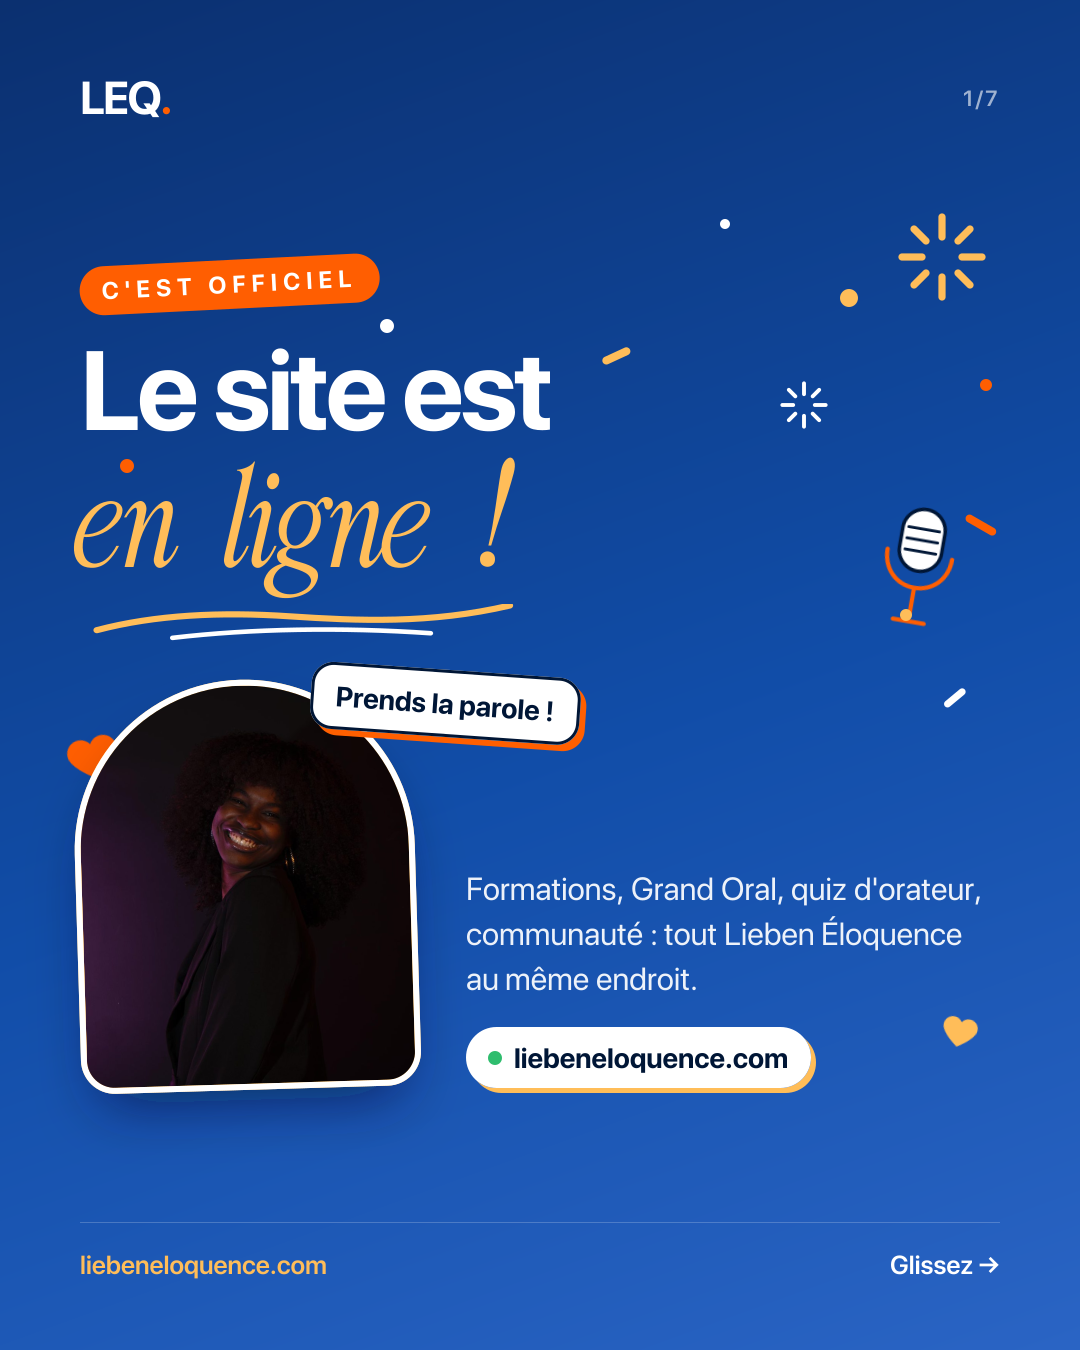
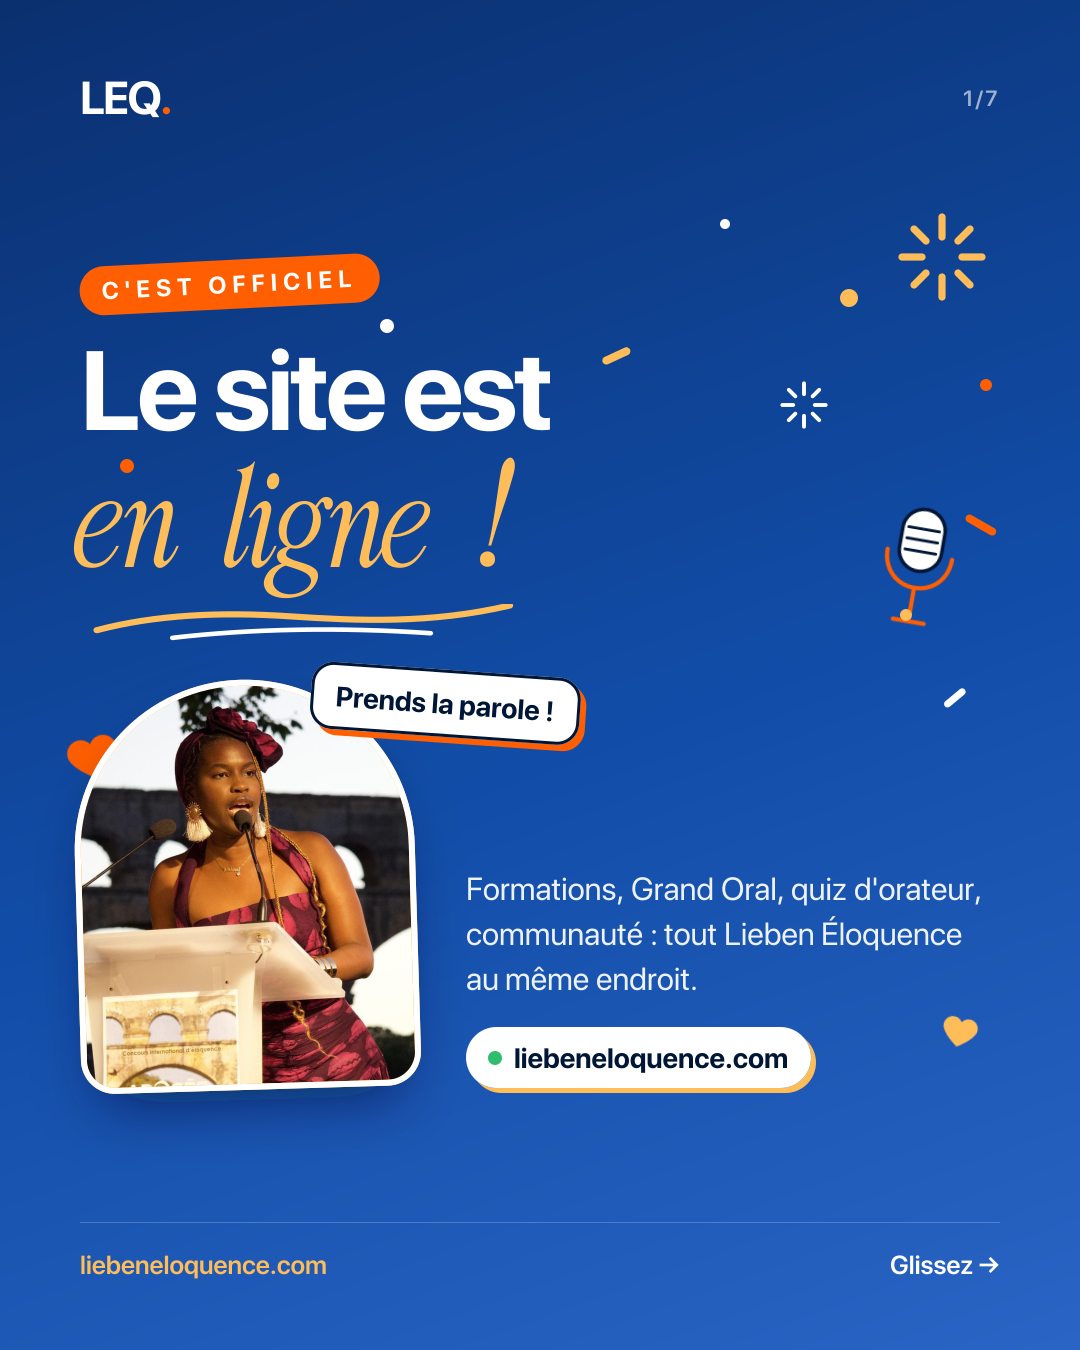
Finitions : photo du Pont du Gard en accueil, nouvelles photos (Eloquentia, portrait), avis à faire défiler soi-même, corrections d'orthographe et d'espaces, rappel spams après envoi, bouton Refaire le quiz visible

Changed region(s): [[0.0611, 0.4978, 0.3972, 0.8089]]

diff --git a/src/app/a-propos/page.tsx b/src/app/a-propos/page.tsx
@@ -27,7 +27,7 @@ const PARCOURS = [
       "Double championne d'un concours national d'argumentation poétique",
       "Responsable communication du magazine scolaire",
       "Animatrice des jeux de culture générale au lycée",
-      "Paire éducatrice : accompagnement des élèves à la prise de parole",
+      "Pair-éducatrice : accompagnement des élèves à la prise de parole",
     ],
   },
   {
@@ -92,7 +92,7 @@ export default function AProposPage() {
               <DrawUnderline width={220} style={{ marginTop: 4 }} />
               <div className="mt-7 grid max-w-[600px] gap-[18px] text-[16px] leading-[1.7] text-white/85">
                 <p className="m-0">
-                  C&apos;est ce qu&apos;écrivait Cicéron. Au vu de mon parcours, je crois plutôt être née oratrice, comme la majorité d&apos;entre nous. Une personne qui parle et qui s&apos;exprime est déjà un orateur. Mais le fossé entre un orateur et un <strong className="font-semibold text-gold">bon</strong> orateur est immense. Ce fossé, j&apos;ai pris le temps de le combler ces dernières années.
+                  C&apos;est ce qu&apos;écrivait Cicéron. Au vu de mon parcours, je crois plutôt être née oratrice, comme la majorité d&apos;entre nous. Une personne qui parle et qui s&apos;exprime est déjà un orateur. Mais le fossé entre un orateur et un <strong className="font-semibold text-gold">bon</strong>{" "}orateur est immense. Ce fossé, j&apos;ai pris le temps de le combler ces dernières années.
                 </p>
                 <p className="m-0">
                   De la jeune fille qui jouait à l&apos;animatrice télé devant son miroir à l&apos;oratrice d&apos;aujourd&apos;hui, le chemin a été long. Moi, c&apos;est Rebecca Lieben Ahiale, togolaise d&apos;origine et résidant en France.
@@ -110,7 +110,7 @@ export default function AProposPage() {
             <div className="flex min-w-0 justify-center" style={{ flex: ".85 1 300px" }}>
               <div className="relative w-full max-w-[384px]">
                 <div aria-hidden="true" className="absolute inset-0 rounded-[28px]" style={{ transform: "translate(-16px,16px)", border: "1px solid rgba(255,189,89,.25)" }} />
-                <Image src="/formatrice.jpg" alt="Portrait de Rebecca Lieben Ahiale" width={900} height={1199} priority sizes="(max-width: 760px) 90vw, 384px" className="relative block h-auto w-full rounded-[28px] object-cover" style={{ aspectRatio: "4 / 5" }} />
+                <Image src="/images/rebecca/portrait-rose.jpg" alt="Portrait de Rebecca Lieben Ahiale" width={1600} height={1067} priority sizes="(max-width: 760px) 90vw, 384px" className="relative block h-auto w-full rounded-[28px] object-cover" style={{ aspectRatio: "4 / 5", objectPosition: "50% 30%" }} />
                 <div className="bob absolute z-[2] rounded-[20px] bg-white px-4 py-2.5 text-[15px] font-bold text-ink" style={{ left: -20, top: "16%", boxShadow: "4px 4px 0 #FF5E01" }}>
                   Togo <span className="serif text-orange">→</span> France
                 </div>

diff --git a/src/components/home/ReviewsCarousel.tsx b/src/components/home/ReviewsCarousel.tsx
@@ -1,0 +1,66 @@
+"use client";
+
+import { useCallback, useEffect, useRef, useState, type ReactNode } from "react";
+
+/** Carrousel d'avis que le visiteur fait défiler lui-même (flèches, glisser au doigt, clavier). */
+export function ReviewsCarousel({ children, count }: { children: ReactNode; count: number }) {
+  const track = useRef<HTMLDivElement>(null);
+  const [atStart, setAtStart] = useState(true);
+  const [atEnd, setAtEnd] = useState(false);
+
+  const update = useCallback(() => {
+    const el = track.current;
+    if (!el) return;
+    setAtStart(el.scrollLeft <= 4);
+    setAtEnd(el.scrollLeft + el.clientWidth >= el.scrollWidth - 4);
+  }, []);
+
+  useEffect(() => {
+    update();
+    window.addEventListener("resize", update);
+    return () => window.removeEventListener("resize", update);
+  }, [update]);
+
+  const move = (dir: 1 | -1) => {
+    const el = track.current;
+    if (!el) return;
+    const card = el.querySelector<HTMLElement>("figure");
+    const step = card ? card.offsetWidth + 24 : el.clientWidth * 0.8;
+    el.scrollBy({ left: dir * step, behavior: window.matchMedia("(prefers-reduced-motion: reduce)").matches ? "auto" : "smooth" });
+  };
+
+  const arrow = (dir: 1 | -1, disabled: boolean) => (
+    <button
+      type="button"
+      onClick={() => move(dir)}
+      disabled={disabled}
+      aria-label={dir === 1 ? "Avis suivants" : "Avis précédents"}
+      className="grid h-12 w-12 cursor-pointer place-items-center rounded-full border-2 border-ink bg-white text-ink transition hover:bg-ink hover:text-white disabled:cursor-default disabled:opacity-30 disabled:hover:bg-white disabled:hover:text-ink"
+    >
+      <svg width="20" height="20" viewBox="0 0 24 24" fill="none" stroke="currentColor" strokeWidth="2.2" strokeLinecap="round" strokeLinejoin="round" aria-hidden="true">
+        <path d={dir === 1 ? "M5 12h14M12 5l7 7-7 7" : "M19 12H5M12 19l-7-7 7-7"} />
+      </svg>
+    </button>
+  );
+
+  return (
+    <div className="mt-12">
+      <div className="wrap">
+        <div
+          ref={track}
+          onScroll={update}
+          tabIndex={0}
+          role="region"
+          aria-label={`${count} avis, faites défiler pour les lire`}
+          className="reviews-track flex snap-x snap-mandatory gap-6 overflow-x-auto px-1 py-4"
+        >
+          {children}
+        </div>
+      </div>
+      <div className="wrap mt-6 flex items-center justify-center gap-3">
+        {arrow(-1, atStart)}
+        {arrow(1, atEnd)}
+      </div>
+    </div>
+  );
+}

diff --git a/src/components/home/Temoignages.tsx b/src/components/home/Temoignages.tsx
@@ -1,4 +1,5 @@
 import type { Review } from "@/content/schema";
+import { ReviewsCarousel } from "./ReviewsCarousel";
 
 const AVATARS = [
   { bg: "#f6c6c6", fg: "#8a3030" },
@@ -19,7 +20,7 @@ const initials = (author: string) =>
 function ReviewCard({ review, index }: { review: Review; index: number }) {
   const c = AVATARS[index % AVATARS.length];
   return (
-    <figure className="card-light m-0 flex w-[min(360px,82vw)] shrink-0 flex-col rounded-[26px] p-7">
+    <figure className="card-light m-0 flex w-[min(360px,82vw)] shrink-0 snap-start flex-col rounded-[26px] p-7">
       <p className="m-0 text-[17px] tracking-[3px] text-gold" aria-label={`${review.rating} étoiles sur 5`}>
         {"★".repeat(review.rating)}
       </p>
@@ -37,7 +38,7 @@ function ReviewCard({ review, index }: { review: Review; index: number }) {
   );
 }
 
-/** Carrousel défilant des avis. La section n'apparaît que s'il y a des avis publiés. */
+/** Carrousel des avis, que le visiteur fait défiler lui-même. La section n'apparaît que s'il y a des avis publiés. */
 export function Temoignages({ reviews }: { reviews: Review[] }) {
   if (reviews.length === 0) return null;
 
@@ -55,19 +56,11 @@ export function Temoignages({ reviews }: { reviews: Review[] }) {
           </svg>
         </div>
       </div>
-      <div className="marquee-viewport mt-12" style={{ maskImage: "linear-gradient(90deg,transparent,#000 8%,#000 92%,transparent)", WebkitMaskImage: "linear-gradient(90deg,transparent,#000 8%,#000 92%,transparent)" }}>
-        <div className="marquee py-2" tabIndex={0} aria-label="Avis de personnes accompagnées (survoler pour mettre en pause)">
-          {reviews.map((r, i) => (
-            <ReviewCard key={r.id} review={r} index={i} />
-          ))}
-          {/* Copie pour un défilement sans fin, ignorée des lecteurs d'écran */}
-          <div aria-hidden="true" className="marquee-copy contents">
-            {reviews.map((r, i) => (
-              <ReviewCard key={`copie-${r.id}`} review={r} index={i} />
-            ))}
-          </div>
-        </div>
-      </div>
+      <ReviewsCarousel count={reviews.length}>
+        {reviews.map((r, i) => (
+          <ReviewCard key={r.id} review={r} index={i} />
+        ))}
+      </ReviewsCarousel>
     </section>
   );
 }

diff --git a/src/app/autres-services/page.tsx b/src/app/autres-services/page.tsx
@@ -167,7 +167,7 @@ export default async function AutresServicesPage() {
                   </li>
                 ))}
               </ul>
-              <p className="mt-[22px] mb-0 text-[14px] text-white/70">Trois formules : gratuite, standard, et accès complet avec coaching.</p>
+              <p className="mt-[22px] mb-0 text-[14px] text-white/70">Trois formules : gratuite, standard et accès complet avec coaching.</p>
               <Link className="btn btn-p mt-7" href="/evenements#newsletter">Être prévenu du lancement</Link>
             </div>
             <div className="relative flex min-w-0 justify-center" style={{ flex: ".9 1 300px" }} aria-hidden="true">
@@ -190,7 +190,7 @@ export default async function AutresServicesPage() {
                   </div>
                   <div className="rounded-[18px] bg-peach p-3.5">
                     <p className="m-0 text-[13px] leading-[1.45]">
-                      <strong>Conseil du jour :</strong> un silence bien placé vaut mieux qu&apos;un « euh ».
+                      <strong>Conseil du jour :</strong>{" "}un silence bien placé vaut mieux qu&apos;un « euh ».
                     </p>
                   </div>
                   <div className="mt-auto flex gap-2">

diff --git a/src/components/home/Constat.tsx b/src/components/home/Constat.tsx
@@ -24,7 +24,7 @@ export function Constat() {
 
           <p className="eyebrow text-center">Le constat</p>
           <p className="mx-auto mt-6 max-w-[768px] text-center text-[17px] leading-[1.65] text-white sm:text-[20px]">
-            La prise de parole, on l&apos;imagine réservée aux grandes scènes et aux personnes d&apos;exception. La plupart des gens ne se sentent pas légitimes de prendre la parole, même quand ils en ont le droit, la compétence et les idées. Pourtant, savoir s&apos;exprimer avec clarté et confiance change tout dans la vie. Cette discipline est présente dans les domaines suivants, et bien plus encore :
+            La prise de parole, on l&apos;imagine réservée aux grandes scènes et aux personnes d&apos;exception. La plupart des gens ne se sentent pas légitimes pour prendre la parole, même quand ils en ont le droit, la compétence et les idées. Pourtant, savoir s&apos;exprimer avec clarté et confiance change tout dans la vie. Cette discipline est présente dans les domaines suivants, et bien plus encore :
           </p>
           <ul className="mx-auto mt-10 flex max-w-[896px] list-none flex-wrap justify-center gap-3 p-0">
             {DOMAINES.map((d) => (

diff --git a/src/app/communaute/page.tsx b/src/app/communaute/page.tsx
@@ -15,7 +15,7 @@ export const metadata: Metadata = {
 };
 
 const ENSEMBLE: { icon: IconName; title: string; text: string; rotate: number }[] = [
-  { icon: "video", title: "Des lives chaque semaine", text: "Sur des thématiques choisies par la communauté : prise de parole, storytelling, gestion du trac, improvisation, culture générale, avec des invités surprises réguliers.", rotate: -1.2 },
+  { icon: "video", title: "Des lives chaque semaine", text: "Sur des thématiques choisies par la communauté : prise de parole, storytelling, gestion du trac, improvisation, culture générale, avec des invités surprise réguliers.", rotate: -1.2 },
   { icon: "chat", title: "Une entraide quotidienne", text: "Vous préparez une soutenance, un concours, un entretien ? Vous postez, la communauté répond.", rotate: 1 },
   { icon: "trophy", title: "Le Grand Prix LEQ", text: "Un concours trimestriel ouvert à tous les membres. Le gagnant est désigné à 50 % par le vote du public et à 50 % par un jury invité. À la clé, jusqu'à 200 € de prix.", rotate: -0.8 },
 ];

diff --git a/src/components/home/QuiSuisJe.tsx b/src/components/home/QuiSuisJe.tsx
@@ -18,13 +18,13 @@ export function QuiSuisJe() {
           <div className="relative w-full max-w-[384px]">
             <div aria-hidden="true" className="absolute inset-0 rounded-[28px]" style={{ transform: "translate(16px,16px)", border: "1px solid rgba(255,189,89,.25)" }} />
             <Image
-              src="/formatrice.jpg"
-              alt="Rebecca Lieben Ahiale, formatrice en prise de parole"
-              width={900}
-              height={1199}
+              src="/images/rebecca/eloquentia-toulon.jpg"
+              alt="Rebecca Lieben Ahiale sur scène, à la soirée de lancement d'Eloquentia Toulon"
+              width={720}
+              height={970}
               sizes="(max-width: 760px) 90vw, 384px"
               className="relative block h-auto w-full rounded-[28px] object-cover"
-              style={{ aspectRatio: "4 / 5" }}
+              style={{ aspectRatio: "4 / 5", objectPosition: "50% 30%" }}
             />
           </div>
         </div>

diff --git a/src/components/home/Hero.tsx b/src/components/home/Hero.tsx
@@ -47,12 +47,12 @@ export function Hero() {
                 style={{ left: "14%", right: "14%", top: "8%", bottom: "6%", borderRadius: "200px 200px 36px 36px", border: "4px solid #fff", boxShadow: "0 30px 60px -20px rgba(0,22,54,.6)" }}
               >
                 <Image
-                  src="/formatrice.jpg"
-                  alt="Rebecca Lieben Ahiale, formatrice en prise de parole"
+                  src="/images/rebecca/pont-du-gard.jpg"
+                  alt="Rebecca Lieben Ahiale au pupitre du Mondial de la Parole, devant le Pont du Gard"
                   fill
                   priority
                   sizes="(max-width: 760px) 70vw, 300px"
-                  style={{ objectFit: "cover", objectPosition: "50% 20%" }}
+                  style={{ objectFit: "cover", objectPosition: "50% 15%" }}
                 />
               </div>
               <div

diff --git a/src/components/home/Transparence.tsx b/src/components/home/Transparence.tsx
@@ -16,7 +16,7 @@ export function Transparence() {
           Ce que je ne fais <span className="serif text-gold">pas</span>
         </h2>
         <p className="mt-5 mb-0 max-w-[672px] text-[15.5px] leading-[1.65] text-white/85">
-          Être clair sur les limites de mon accompagnement, c&apos;est la meilleure façon de vous garantir un travail utile. Voici ce qui relève d&apos;autres professionnels.
+          Être claire sur les limites de mon accompagnement, c&apos;est la meilleure façon de vous garantir un travail utile. Voici ce qui relève d&apos;autres professionnels.
         </p>
         <div className="mt-14 grid gap-9" style={{ gridTemplateColumns: "repeat(auto-fit,minmax(min(280px,100%),1fr))" }}>
           {LIMITES.map((l) => (

diff --git a/src/lib/options.ts b/src/lib/options.ts
@@ -6,6 +6,6 @@ export const ORAUX = ["Grand Oral du bac", "Oral de BTS", "Soutenance", "Pitch",
 
 export const DEMANDES = ["Discours sur mesure", "Animation d'événement", "Coaching concours d'éloquence", "Partenariat LEQ'FAM", "Autre demande"] as const;
 
-export const PROFILS_NEWSLETTER = ["Lycéen(ne) · Terminale", "Étudiant(e)", "Professionnel(le)", "Établissement scolaire"] as const;
+export const PROFILS_NEWSLETTER = ["Lycéen·ne en terminale", "Étudiant·e", "Professionnel·le", "Établissement scolaire"] as const;
 
 export const THEMATIQUES = ["Gestion du trac", "Structuration du discours", "Voix & non-verbal", "Improvisation", "Concours d'éloquence"] as const;

diff --git a/src/components/quiz/Quiz.tsx b/src/components/quiz/Quiz.tsx
@@ -131,7 +131,11 @@ export function Quiz() {
 
       {step === "result" && (
         <p className="mt-7 mb-0 text-center">
-          <button type="button" onClick={start} className="cursor-pointer border-0 bg-transparent text-[14px] text-white/75 underline">
+          <button type="button" onClick={start} className="btn btn-g">
+            <svg width="16" height="16" viewBox="0 0 24 24" fill="none" stroke="currentColor" strokeWidth="2" strokeLinecap="round" strokeLinejoin="round" aria-hidden="true">
+              <path d="M3 12a9 9 0 1 0 3-6.7L3 8" />
+              <path d="M3 3v5h5" />
+            </svg>
             Refaire le quiz
           </button>
         </p>

diff --git a/src/components/ui/Form.tsx b/src/components/ui/Form.tsx
@@ -66,6 +66,9 @@ export function FormSuccess({ title, children }: { title: string; children: Reac
       </svg>
       <p className="m-0 text-[17px] font-semibold text-white">{title}</p>
       <p className="m-0 max-w-[360px] text-[14px] leading-[1.6] text-white/70">{children}</p>
+      <p className="m-0 mt-1 max-w-[380px] rounded-[12px] bg-white/8 px-3.5 py-2.5 text-[12.5px] leading-[1.55] text-white/75">
+        Rien reçu d&apos;ici quelques minutes ? Pensez à vérifier vos <strong className="text-white">spams</strong> (courriers indésirables) et à marquer notre mail comme « non spam ».
+      </p>
     </div>
   );
 }
